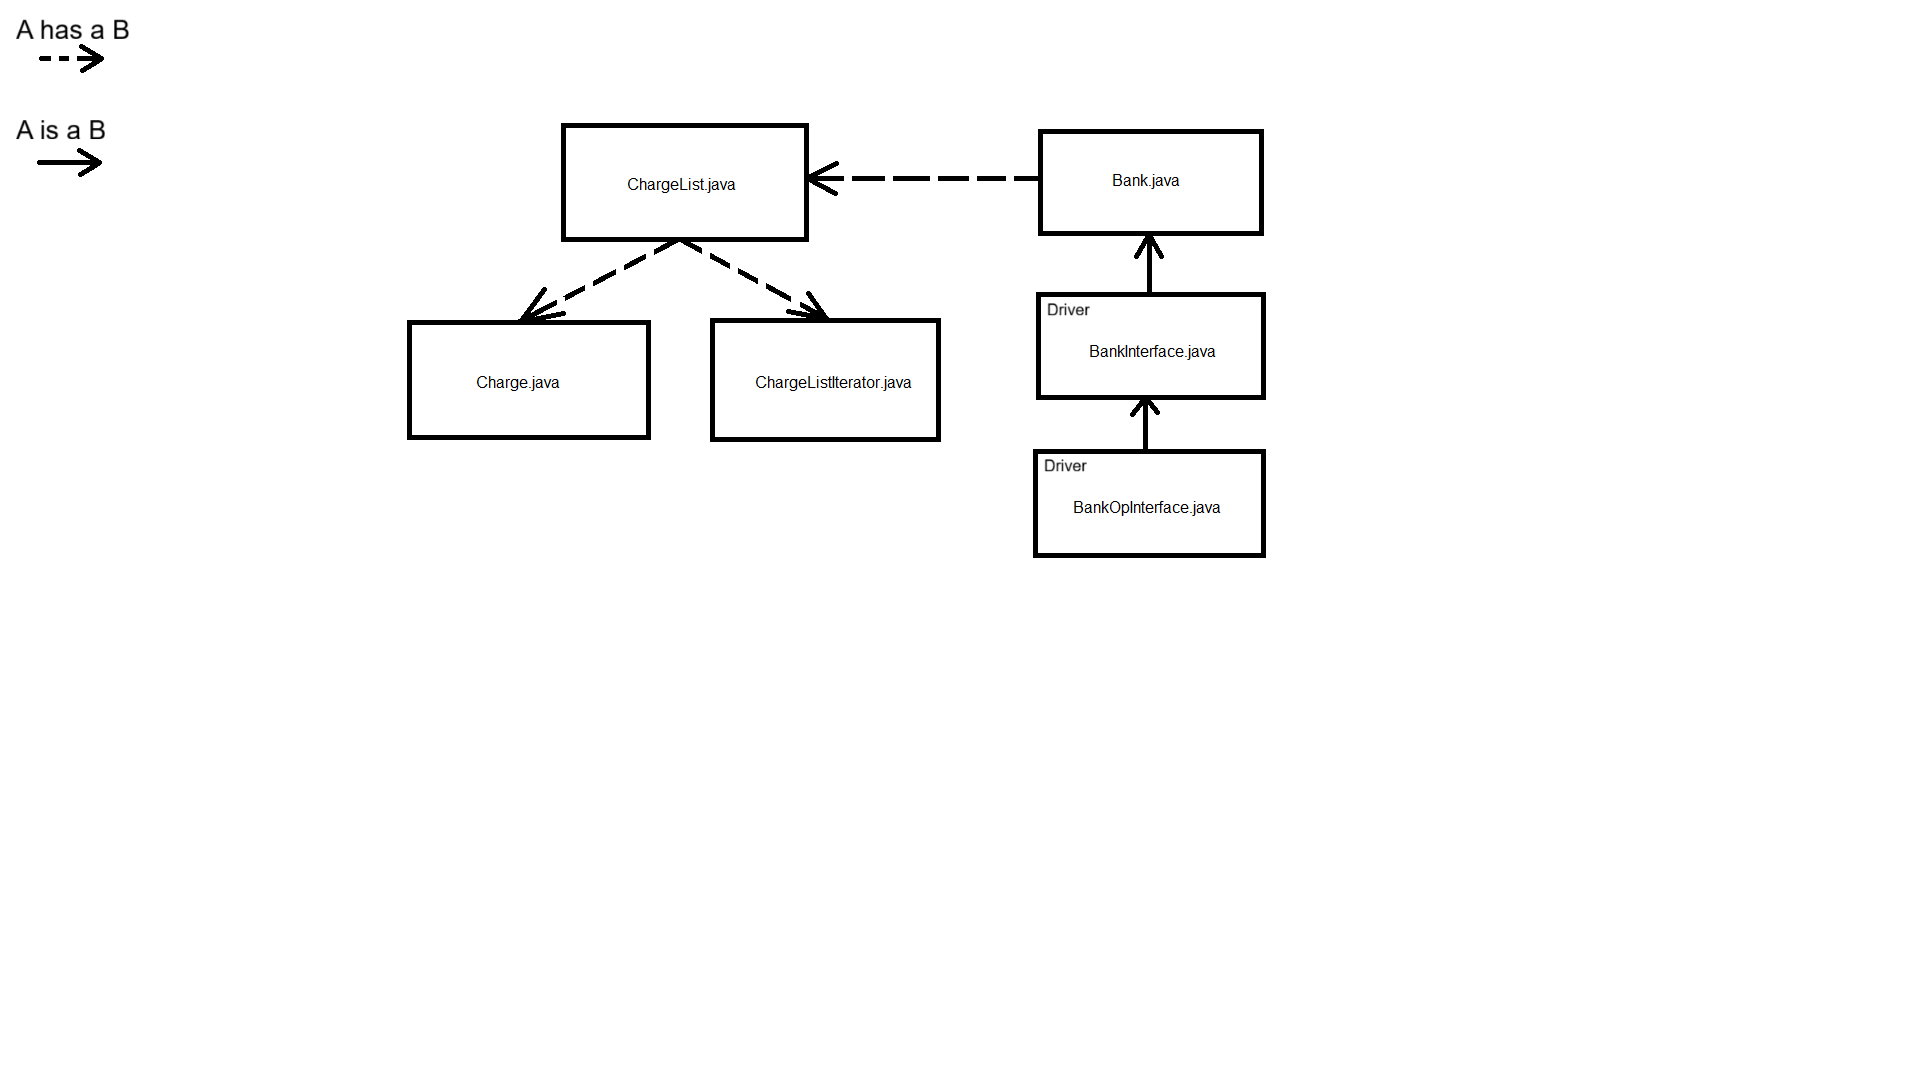
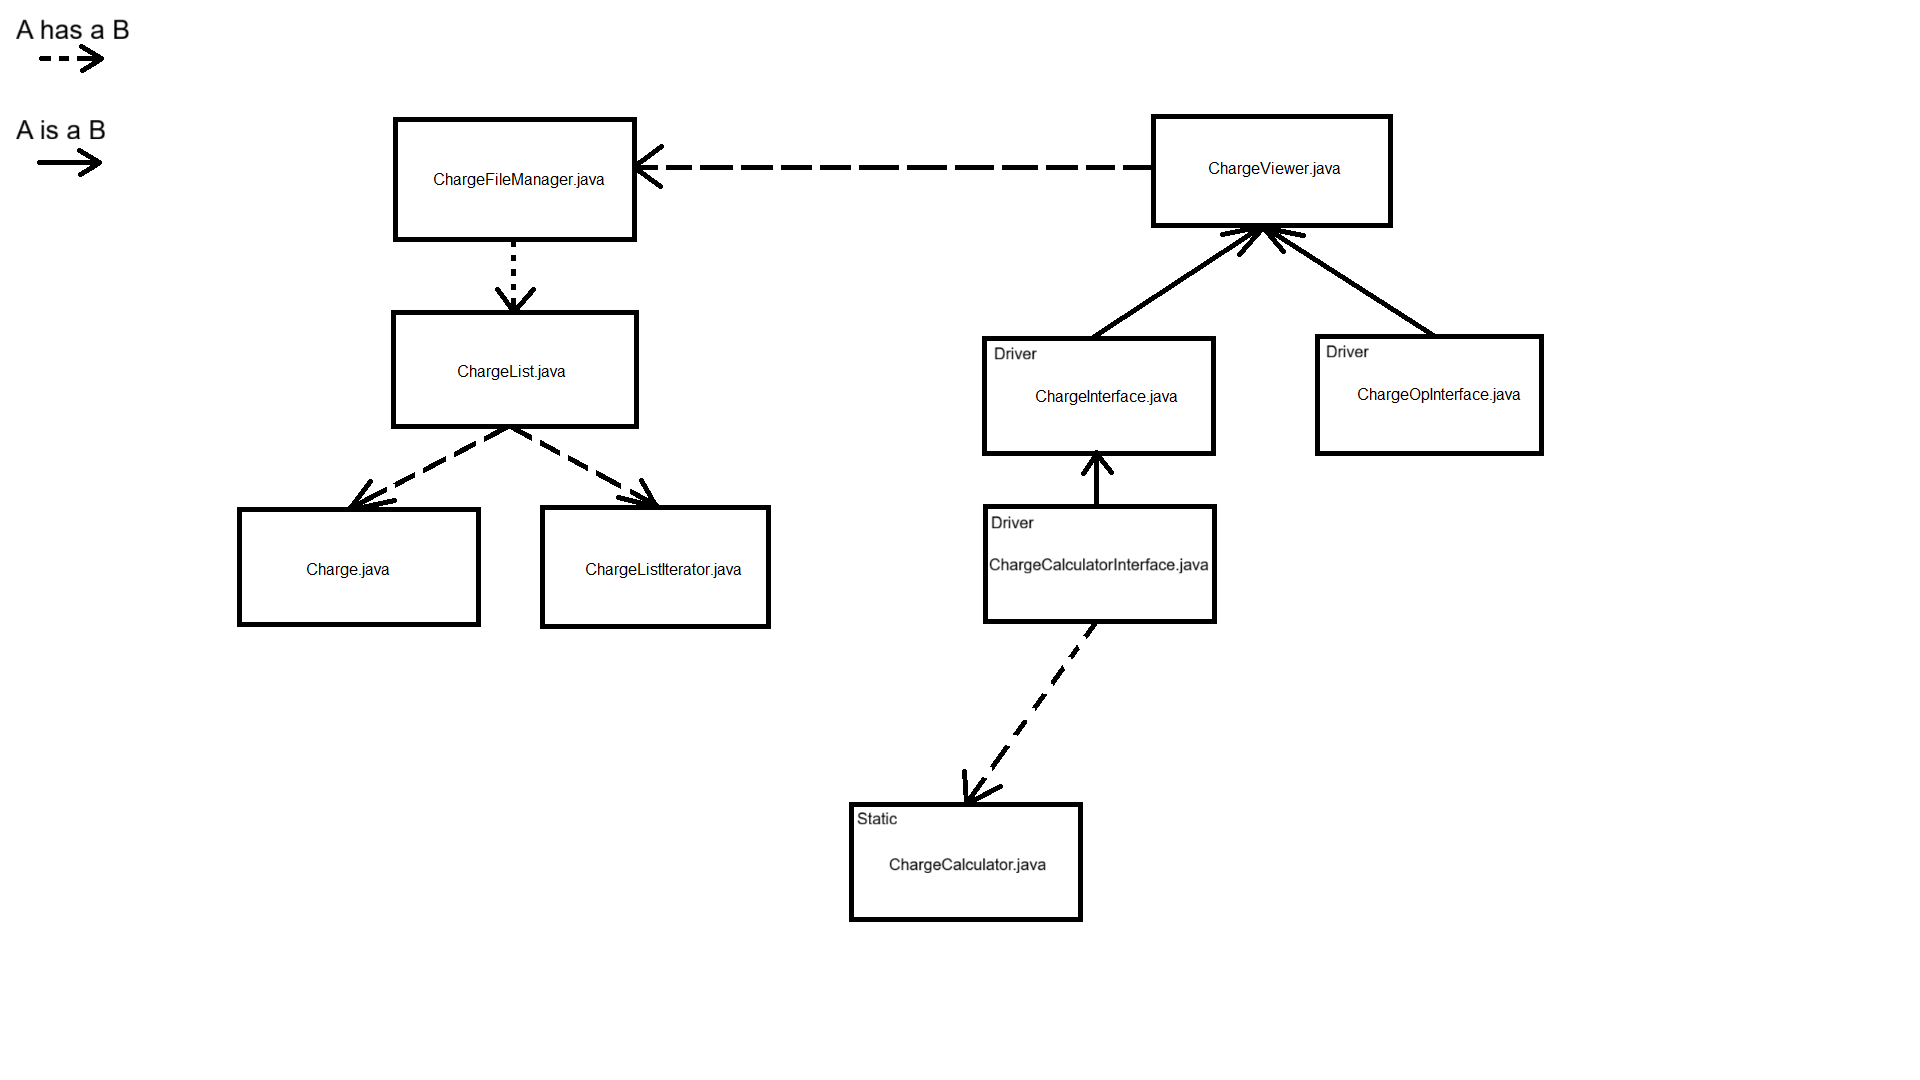
Release 1.2.0

diff --git a/camino/ChargeCalculatorInterface.java b/camino/ChargeCalculatorInterface.java
@@ -1,0 +1,53 @@
+import java.util.Scanner;
+
+import java.util.Map;
+import java.util.TreeMap;
+
+public class ChargeCalculatorInterface extends ChargeInterface
+{
+	public void displaySummary()
+	{
+		this.printHeader();
+		
+		ChargeList charges = chargeFileManager.getCharges();
+		Map<String, Float> summary = ChargeCalculator.summarize(charges);
+		String format = "%-40s%8s%n";
+		
+		System.out.println("Resumen de cargas:");
+		System.out.printf(format, "razón", "cantidad");
+		for(Map.Entry<String, Float> sum : summary.entrySet())
+			System.out.printf(format, sum.getKey(), String.format("%.02f", sum.getValue()));
+	}
+	
+	// driver
+	public static void main(String[] args)
+	{
+		ChargeCalculatorInterface chargeCalcInterface = new ChargeCalculatorInterface();
+		Scanner enter = new Scanner(System.in);
+		
+		boolean selected = false; // specifies whether user successfully selects existing account/month
+		
+		while(chargeCalcInterface.quitProgramRequest == false) // loops until user wants to exit program
+		{
+			chargeCalcInterface.resetAll();
+			chargeCalcInterface.displayAccounts();
+			selected = chargeCalcInterface.selectAccount(); // prompt user to select account or exit program
+			if(selected) // did user successfully select existing account?
+			{
+				while(chargeCalcInterface.exitAccountRequest == false) // loops until user wants to exit account selected
+				{
+					chargeCalcInterface.displayMonths();
+					selected = chargeCalcInterface.selectMonth(); // prompt user to select month or exit account
+					if(selected) // did user successfully select existing month in selected account?
+					{
+						chargeCalcInterface.displaySummary();
+						System.out.println("\nEntrar para continuar.");
+						enter.nextLine(); // get user input to exit month
+						chargeCalcInterface.chargeFileManager.resetMonth(); // exit month
+					}
+				}
+			}
+		}
+		System.out.println("Terminando...");
+	}
+}

diff --git a/camino/ChargeCalculator.java b/camino/ChargeCalculator.java
@@ -1,0 +1,24 @@
+import java.util.Map;
+import java.util.TreeMap;
+
+public class ChargeCalculator
+{
+	public static Map<String, Float> summarize(ChargeList charges)
+	{
+		Map<String, Float> summary = new TreeMap<>();
+		for(Charge charge : charges)
+		{
+			String reason = charge.getReason();
+			float amount = charge.getAmount();
+			
+			if(!summary.containsKey(reason))
+				summary.put(reason, amount);
+			else
+			{
+				float sum = summary.get(reason) + amount;
+				summary.put(reason, sum);
+			}
+		}
+		return summary;
+	}
+}

diff --git a/camino/ChargeInterface.java b/camino/ChargeInterface.java
@@ -10,8 +10,8 @@ public class ChargeInterface extends ChargeViewer
 {
 	private Scanner scanner;	// scanner object for reading user input
 	
-	private boolean quitProgramRequest = false;	// if user wants to exit program
-	private boolean exitAccountRequest = false;	// if user wants to back out of account
+	protected boolean quitProgramRequest = false;	// if user wants to exit program
+	protected boolean exitAccountRequest = false;	// if user wants to back out of account
 	
 	// constructor
 	public ChargeInterface()

diff --git a/camino/Charge.java b/camino/Charge.java
@@ -34,7 +34,7 @@ public class Charge
 	}
 	
 	// getter method for charge amount
-	public double getAmount()
+	public float getAmount()
 	{
 		return this.amount;
 	}

diff --git a/README.md b/README.md
@@ -1,12 +1,13 @@
 # bank-manager
 This project provides a basic system to manage all credit card charges and bank transactions you've made all in one place.
 
-August 6, 2025\
-Version 1.1.0
+September 23, 2025\
+Version 1.2.0
 
 The user can:\
-View list of registered accounts, months within an account, or registered charges within a month of an account
-Add or remove accounts, months within an account, or charges within a month of an account
+View list of registered accounts, months within an account, or registered charges within a month of an account\
+Add or remove accounts, months within an account, or charges within a month of an account\
+See a summary of charges made within a month of an account
 
 Loop:
 1. User prompted to select an existing account, add a new account, remove an existing account (entering -128), 
@@ -19,8 +20,9 @@ Loop:
 SETUP:
 1. Place directory in file system like so: C:\programs\camino
 2. Put *.bat files anywhere desired and execute or compile and run a driver class from command prompt\
-bankviewer.bat: use to simply view accounts, transactions, etc. (BankInterface.java)\
-bankmanager.bat: use to add or remove accounts, transactions, etc. (BankOpInterface.java)
+charge-interface.bat: use to simply view accounts, transactions, etc. (ChargeInterface.java)\
+charge-op-interface.bat: use to add or remove accounts, transactions, etc. (ChargeOpInterface.java)\
+charge-calc-interface.bat: use to see summary of charges made (ChargeCalculatorInterface.java)
 
 Also:\
 simbolos directory contains headers you can use for different banks\
